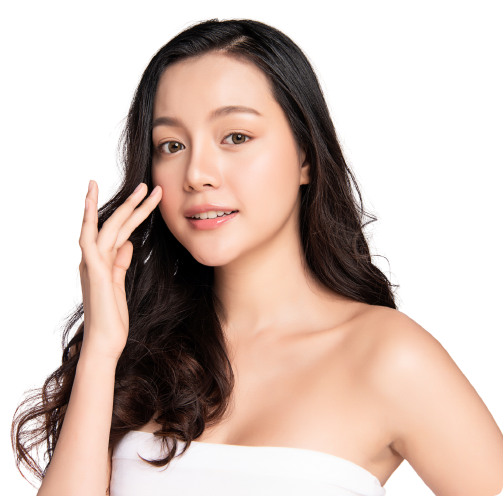
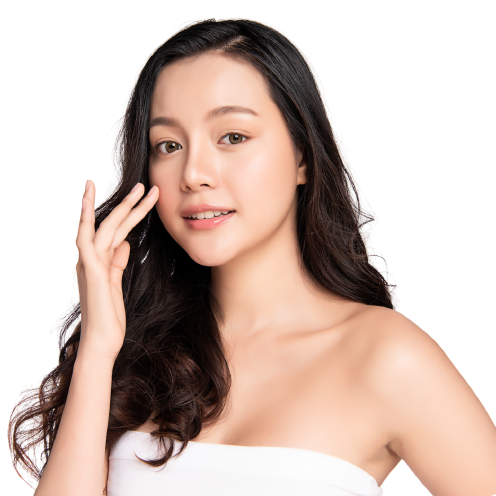
some style chagne

diff --git a/src/hooks/useFirebase.js b/src/hooks/useFirebase.js
@@ -1,7 +1,6 @@
 import initializeFirebase from "../Pages/Login/Login/Firebase/firebase.init"
 import { createUserWithEmailAndPassword, getAuth, GoogleAuthProvider, onAuthStateChanged, signInWithEmailAndPassword, signInWithPopup, signOut, updateProfile } from "firebase/auth";
 import { useEffect, useState } from "react";
-import { useLocation, useNavigate } from "react-router-dom";
 
 // initialize Firebase;
 initializeFirebase();
@@ -10,8 +9,6 @@ initializeFirebase();
 export const useFirebase = () => {
     const [user, setUser] = useState({})
     const [isDarkTheme, setIsDarkTheme] = useState(true);
-    const navigate = useNavigate();
-    const location = useLocation();
 
     const auth = getAuth();
 
@@ -19,18 +16,12 @@ export const useFirebase = () => {
         const provider = new GoogleAuthProvider();
         signInWithPopup(auth, provider)
             .then((result) => {
-                if (location.pathname === '/login') {
-                    navigate('/');
-                }
             }).catch((error) => {
             });
     };
     const createUserWithEmailHandler = (name, email, password) => {
         createUserWithEmailAndPassword(auth, email, password)
             .then((result) => {
-                if (location.pathname === '/login') {
-                    navigate('/');
-                }
                 updateUser(name)
             })
             .catch((error) => {
@@ -40,10 +31,6 @@ export const useFirebase = () => {
     const signUserWithEmailHandler = (email, password) => {
         signInWithEmailAndPassword(auth, email, password)
             .then((result) => {
-                
-                if (location.pathname === '/login') {
-                    navigate('/');
-                }
             })
             .catch((error) => {
             });

diff --git a/src/Pages/Home/HomeHeader/HomeHeader.js b/src/Pages/Home/HomeHeader/HomeHeader.js
@@ -1,15 +1,16 @@
 import React from 'react';
-import homeHeaderPic from '../../../Image/home-header-pic.png';
 import HeaderNav from '../../Share/HeaderNav/HeaderNav';
+import HeaderCarousel from './HeaderCarousel';
 
 const HomeHeader = () => {
     return (
         <div className="container background-style" style={{ padding: '10px' }}>
             <HeaderNav></HeaderNav>
             <div className="row mt-5">
+
                 <div className="col-md-6 d-flex align-items-center" >
-                    <div>
-                        <h1 style={{ fontWeight: '700' }}>BEAUTY SALON <br /> ROR EVERY WOMEN</h1>
+                    <div className="text-center text-md-start">
+                        <h1 style={{ fontWeight: '700' }}>BEAUTY SALON <br /> <span style={{ color: '#f21679' }}>ROR EVERY WOMEN</span></h1>
                         <p>Lorem, ipsum dolor sit amet consectetur adipisicing elit. Quos aspernatur harum quasi animi modi cum rerum explicabo cupiditate expedita. Sit!</p>
                         <a href="https://www.linkedin.com/in/md-mehedy-hassan/" target="_blank" rel="noopener noreferrer">
                             <button className="btn" style={{ background: '#f21679', color: 'white' }}>Get an Appointment</button>
@@ -17,7 +18,9 @@ const HomeHeader = () => {
                     </div>
                 </div>
                 <div className="col-md-6" style={{ textAlign: 'center' }}>
-                    <img style={{ width: '80%' }} src={homeHeaderPic} alt="" />
+                    <div style={{ width: '85%', marginLeft: '10%'}}>
+                        <HeaderCarousel />
+                    </div>
                 </div>
             </div>
         </div>

diff --git a/src/Pages/Orders/Orders/Orders.js b/src/Pages/Orders/Orders/Orders.js
@@ -1,5 +1,5 @@
 import React from 'react';
-import './Orders.css'
+import './Orders.css';
 import useAuth from '../../../hooks/useAuth';
 import { darkTheme, GlobalStyles, lightTheme } from '../../../theme/theme';
 import jerinLogo from '../../../Icon/jerinLogo.png';
@@ -17,11 +17,11 @@ const Orders = () => {
         <div className="container">
             <GlobalStyles theme={isDarkTheme ? darkTheme : lightTheme} />
             <div className="row">
-                <div className="col-xxl-2 col-3">
-                    <ul>
-                        <Link to="/">
+                <div className="col-xxl-2 col-lg-3 col-12 text-lg-start text-center">
+                    <ul className="mt-2 d-flex flex-lg-column">
+                        <Link to="/" className="orders-link-style">
                             <li >
-                                <img style={{ width: '40px' }} src={jerinLogo} alt="" />
+                                <img style={{ width: '30px' }} src={jerinLogo} alt="" /> Home
                             </li>
                         </Link>
                         <Link to="/services" className="orders-link-style" >
@@ -41,7 +41,7 @@ const Orders = () => {
                         </Link>
                     </ul>
                 </div>
-                <div className="col-xxl-10 col-9 orders-main-style">
+                <div className="col-xxl-10 col-lg-9 col-12 orders-main-style mt-3">
                     <Routes>
                         <Route path="book/:bookId" element={<Book />} />
                         <Route path="bookingList" element={<BookingList />} />

diff --git a/src/Pages/Admin/Admin/Admin.js b/src/Pages/Admin/Admin/Admin.js
@@ -18,11 +18,11 @@ const Admin = () => {
         <div className="container">
             <GlobalStyles theme={isDarkTheme ? darkTheme : lightTheme} />
             <div className="row">
-                <div className="col-xxl-2 col-3">
-                    <ul>
-                        <Link to="/">
+                <div className="col-xxl-2 col-lg-3 col-12 text-lg-start text-center">
+                    <ul className="mt-2 d-flex flex-lg-column">
+                        <Link to="/" className="orders-link-style">
                             <li >
-                                <img style={{ width: '40px' }} src={jerinLogo} alt="" />
+                                <img style={{ width: '30px' }} src={jerinLogo} alt="" /> Home
                             </li>
                         </Link>
                         <Link to="orderList" className={location.pathname === "/admin/orderList"? 'text-danger' : "orders-link-style" }>
@@ -52,7 +52,7 @@ const Admin = () => {
                         </Link>
                     </ul>
                 </div>
-                <div className="col-xxl-10 col-9 orders-main-style">
+                <div className="col-xxl-10 col-lg-9 col-12 orders-main-style mt-3">
                     <Routes>
                         <Route path="orderList" element={<OrderList />} />
                         <Route path="addService" element={<AddService />} />

diff --git a/src/App.js b/src/App.js
@@ -11,6 +11,7 @@ import ServicesDetails from './Pages/ServicesDetails/ServicesDetails';
 import ContactUs from './Pages/ContactUs/ContactUs';
 import AdminPrivateRoute from './Pages/PrivateRoute/AdminPrivateRoute';
 import Admin from './Pages/Admin/Admin/Admin';
+import LoginPrivateRoute from './Pages/PrivateRoute/LoginPrivateRoute';
 
 function App() {
   return (
@@ -23,12 +24,16 @@ function App() {
           <Route path="orders/*" element={<Orders />} />
           <Route path="services" element={<ServicesDetails />} />
         </Route>
-        <Route element={<AdminPrivateRoute/>}>
-          <Route path="admin/*" element={<Admin/>}/>
+        <Route element={<AdminPrivateRoute />}>
+          <Route path="admin/*" element={<Admin />} />
+        </Route>
+        <Route element={<LoginPrivateRoute />}>
+          <Route path="login" element={<Login />} />
+          <Route path="registered" element={<Registered />} />
         </Route>
         <Route path="contact" element={<ContactUs />} />
-        <Route path="login" element={<Login />} />
-        <Route path="registered" element={<Registered />} />
+        {/* <Route path="login" element={<Login />} />
+        <Route path="registered" element={<Registered />} /> */}
       </Routes>
     </AuthProvider>
   );

diff --git a/src/Pages/Home/HomeHeader/HeaderCarousel.js b/src/Pages/Home/HomeHeader/HeaderCarousel.js
@@ -1,0 +1,35 @@
+import React from 'react';
+import homeHeaderPicOne from '../../../Image/home-header-pic.png';
+import homeHeaderPicTwo from '../../../Image/home-header-pic-2.png';
+import homeHeaderPicThree from '../../../Image/home-header-pic-3.png';
+import { Carousel } from 'react-bootstrap';
+
+const HeaderCarousel = () => {
+  return (
+    <Carousel>
+      <Carousel.Item>
+        <img
+          className="d-block w-100"
+          src={homeHeaderPicOne}
+          alt="First slide"
+        />
+      </Carousel.Item>
+      <Carousel.Item>
+        <img
+          className="d-block w-100"
+          src={homeHeaderPicTwo}
+          alt="Second slide"
+        />
+      </Carousel.Item>
+      <Carousel.Item>
+        <img
+          className="d-block w-100"
+          src={homeHeaderPicThree}
+          alt="Third slide"
+        />
+      </Carousel.Item>
+    </Carousel>
+  );
+};
+
+export default HeaderCarousel;

diff --git a/src/Pages/Admin/OrderList/OrderList.js b/src/Pages/Admin/OrderList/OrderList.js
@@ -17,7 +17,7 @@ const OrderList = () => {
     return (
         <div>
             <div className="d-flex justify-content-between">
-                <h2>Order List</h2>
+                <h2 style={{ color: '#f21679', fontWeight: '900'}}>Order List</h2>
                 <Link to="/profile">
                     <button className="btn" style={{ background: '#f21679', color: 'white' }}><FontAwesomeIcon icon={faUser} /></button>
                 </Link>
@@ -26,7 +26,7 @@ const OrderList = () => {
                 <table id="ordersTable">
                     <tr>
                         <th>Name</th>
-                        <th style={{maxWidth: '120px', overflow: 'auto'}}>Email Id</th>
+                        <th className="email-responsive-order-list">Email Id</th>
                         <th>Service</th>
                         <th>Status</th>
                     </tr>

diff --git a/src/Pages/Admin/ManageServcies/ManageServices.js b/src/Pages/Admin/ManageServcies/ManageServices.js
@@ -28,7 +28,7 @@ const ManageServices = () => {
     return (
         <div>
             <div className="d-flex justify-content-between">
-                <h2>Manage Services</h2>
+                <h2 style={{ color: '#f21679', fontWeight: '900'}}>Manage Services</h2>
                 <Link to="/profile">
                     <button className="btn" style={{ background: '#f21679', color: 'white' }}><FontAwesomeIcon icon={faUser} /></button>
                 </Link>
@@ -36,7 +36,7 @@ const ManageServices = () => {
             <div >
                 <table id="servicesTable">
                     <tr >
-                        <th>Email Id</th>
+                        <th className="email-responsive-services-list">Email Id</th>
                         <th>Service</th>
                         <th>Status</th>
                     </tr>

diff --git a/src/Pages/Home/Testimonials/Testimonials.js b/src/Pages/Home/Testimonials/Testimonials.js
@@ -21,7 +21,7 @@ const Testimonials = () => {
     }, [currentNumber]);
     return (
         <div className="container mt-5 mb-5">
-            <h1 style={{ textAlign: 'center', fontWeight: '800' }}>Reviews</h1>
+            <h1 style={{ textAlign: 'center', fontWeight: '800', color: '#f21679'}}>Reviews</h1>
             <div className='row mt-4'>
                 {
                     reviews.map(review => <Reviews key={review._id} review={review}></Reviews>)

diff --git a/src/Pages/Admin/AdminList/AdminList.js b/src/Pages/Admin/AdminList/AdminList.js
@@ -16,7 +16,7 @@ const AdminList = () => {
     return (
         <div>
             <div className="d-flex justify-content-between">
-                <h2>Manage Services</h2>
+                <h2 style={{ color: '#f21679', fontWeight: '900'}}>Manage Services</h2>
                 <Link to="/profile">
                     <button className="btn" style={{ background: '#f21679', color: 'white' }}><FontAwesomeIcon icon={faUser} /></button>
                 </Link>

diff --git a/src/Pages/Orders/BookingList/BookingList.js b/src/Pages/Orders/BookingList/BookingList.js
@@ -17,7 +17,7 @@ const BookingList = () => {
     return (
         <div>
             <div className="d-flex justify-content-between">
-                <h2>Booking List</h2>
+                <h2 style={{color: '#f21679', fontWeight: '900'}}>Booking List</h2>
                 <Link to="/profile">
                     <button className="btn" style={{ background: '#f21679', color: 'white' }}><FontAwesomeIcon icon={faUser} /></button>
                 </Link>

diff --git a/src/Pages/Admin/AddService/AddService.js b/src/Pages/Admin/AddService/AddService.js
@@ -24,7 +24,7 @@ const AddService = () => {
     return (
         <div>
             <div className="d-flex justify-content-between">
-                <h2>Add Service</h2>
+                <h2 style={{ color: '#f21679', fontWeight: '900'}}>Add Service</h2>
                 <Link to="/profile">
                     <button className="btn" style={{ background: '#f21679', color: 'white' }}><FontAwesomeIcon icon={faUser} /></button>
                 </Link>
